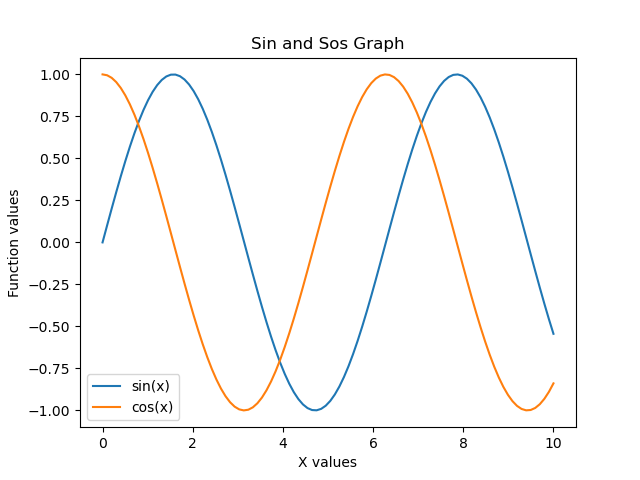
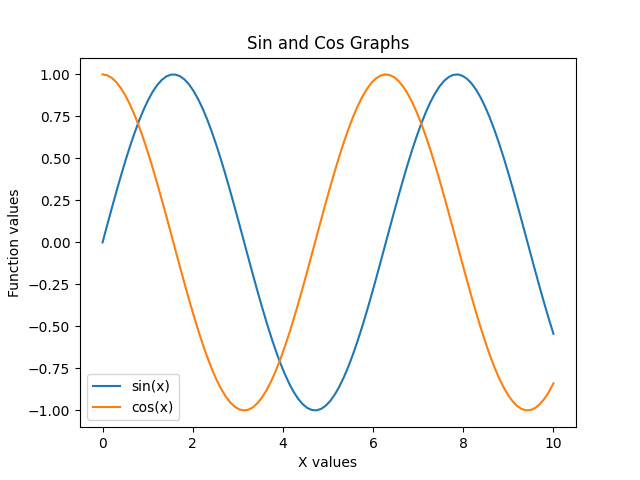
Add files via upload
Fixes #1

diff --git a/day1-2_assignment.py b/day1-2_assignment.py
@@ -1,0 +1,67 @@
+import matplotlib.pyplot as plt
+import numpy as np
+import pandas as pd
+
+#1. 타이틀, 라벨, 범례 추가하기
+#x = np.linspace(0, 10, 100) 데이터 및 y1 = np.sin(x), y2 = np.cos(x) 계산
+x = np.linspace(0, 10, 100)
+y1 = np.sin(x)
+y2 = np.cos(x)
+
+#한 화면에 y1, y2 그래프 그리기 (label='sin(x)', label='cos(x)' 각각 지정)
+plt.plot(x, y1, label='sin(x)')
+plt.plot(x, y2, label='cos(x)')
+
+#타이틀 'Sin and Cos Graphs' 추가 (plt.title)
+plt.title('Sin and Cos Graphs')
+
+#X축 라벨 'X values', Y축 라벨 'Function values' 추가 (plt.xlabel, plt.ylabel)
+plt.xlabel('X values')
+plt.ylabel('Function values')
+
+#범례 표시 (plt.legend())
+plt.legend()
+
+#result_day1-2_q1.png 파일로 저장 후 plt.clf()로 그래프 초기화
+plt.savefig('result_day1-2_q1.png')
+plt.clf()
+
+#2. 색상, 선 스타일, 마커 커스텀하기
+x = np.linspace(0, 10, 40)
+
+y1 = np.sin(x) 
+plt.plot(x, y1, color='red', linestyle='dashed', marker='o', label='sin(x)')
+
+y2 = np.cos(x)
+plt.plot(x, y2, color='blue', linestyle='solid', marker='s', label='cos(x)')
+
+y3 = np.sin(x) * np.cos(x)
+plt.plot(x, y3, color='green', linestyle='dashdot', marker='^', label='sin(x)*cos(x)')
+
+#범례 표시 (plt.legend())
+plt.legend()
+plt.show()
+#result_day1-2_q2.png 파일로 저장 후 plt.clf()로 그래프 초기화
+plt.savefig('result_day1-2_q2.png')
+plt.clf()
+
+#3. 축 범위 설정하기 (xlim, ylim)
+#x = np.linspace(0, 10, 100), y = np.sin(x) 그래프 생성
+x = np.linspace(0, 10, 100)
+y = np.sin(x)
+plt.plot(x, y)
+
+
+#X축 범위 0 ~ 2 * np.pi 로 제한 (plt.xlim)
+plt.xlim(0, 2 * np.pi)
+
+#Y축 범위 -1.5 ~ 1.5 로 제한 (plt.ylim)
+plt.ylim(-1.5, 1.5)
+
+
+#타이틀 'Sin Graph with Custom Axis Limits' 추가
+plt.title('Sin Graph with Custom Axis Limits')
+
+#result_day1-2_q3.png 파일로 저장
+plt.savefig('result_day1-2_q3.png')
+plt.clf()
